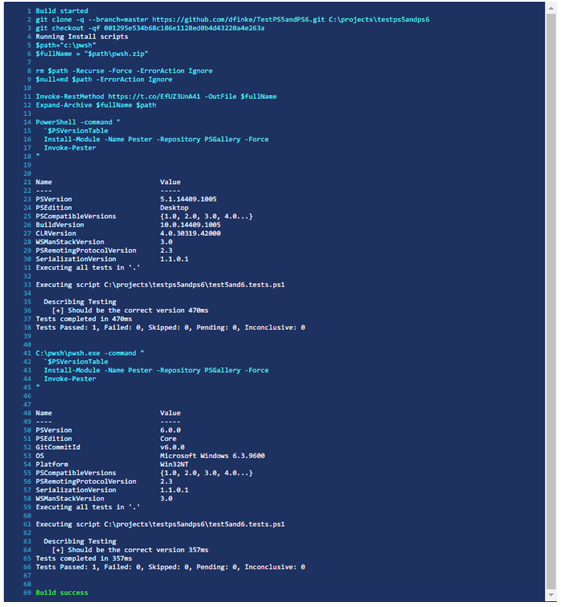
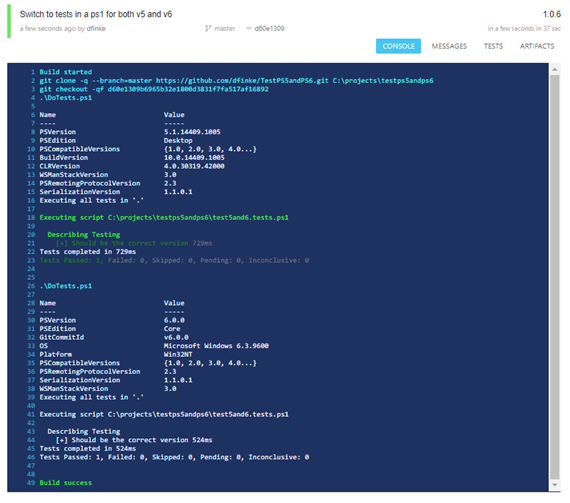
updated

Changed region(s): [[0.0, 0.0, 0.9964, 1.0]]

diff --git a/_posts/2018-01-23-PowerShell-Testing-Your-Scripts-For-v5-and-v6.md b/_posts/2018-01-23-PowerShell-Testing-Your-Scripts-For-v5-and-v6.md
@@ -12,6 +12,8 @@ tags:
 
 ## PowerShell, GitHub and Appveyor
 
+> UPDATE: Thanks to [Chris Hunt](https://twitter.com/LogicalDiagram) who found that [Appveyor](https://www.appveyor.com/) just released PS v6.0. So the YAML build config can call it with the new `pwsh:` section. eliminating the need to download and unzip V6. This reduced more moving parts and there is less to be concerned with.
+
 In this post I'll walk through how to use [GitHub](https://github.com/) and [Appveyor](https://www.appveyor.com/) to quickly and easily run your PowerShell Pester tests in both v5 and V6 of PowerShell. This way you'll have confidence in your scripts being able to run across versions.
 
 You can create free accounts for both [GitHub](https://github.com/) and [Appveyor](https://www.appveyor.com/). Then, fork my [repo](https://github.com/dfinke/TestPS5andPS6) and easily add it to your [Appveyor](https://www.appveyor.com/) to see it work.
@@ -22,11 +24,21 @@ You can check out a the [CI Build Results](https://ci.appveyor.com/project/dfink
 
 ## The Key
 
-Two things need to happen to be able to run your Pester tests in Appveyor for both v5 and v6. PowerShell version 6 needs to be installed and then Pester needs to be installed from the PowerShell Gallery for both versions in order to run the tests.
+Two things need to happen to be able to run your Pester tests in Appveyor for both v5 and v6. ~~PowerShell version 6 needs to be installed and then~~ Pester needs to be installed from the PowerShell Gallery for both versions in order to run the tests.
 
 That's what this YAML config file instructs the Appveyor runtime to do.
 
-![](/images/posts/appveyorv5v6.png)
+![](/images/posts/appveyorv5v6Updated.png)
+
+
+
+`.\DoTest.ps1` contains:
+
+```powershell
+$PSVersionTable
+Install-Module -Name Pester -Repository PSGallery -Force
+Invoke-Pester
+```
 
 ## Continuous...
 
@@ -35,21 +47,24 @@ After you added your GitHub repo to your Appveyor projects, Appveyor will clone 
 **Note**: Going forward, every time you check in changes to your GitHub repo, GitHub will notify Appveyor, and it will automatically go to work cloning it and running the `appveyor.yml` file.
 
 ## YML Sections
-You can see the two primary sectons `install` and `test_script`. Appveyor will run these in order, similar to a build spec.
 
-In the `install` section, the `- ps: |` section is a standard set of PowerShell. The first four lines sets up a couple of variables, removes the directory `$path` and then makes the directory `$path`. This is needed fot the `Invoke-RestMethod` which downloads the PowerShell v6.0 zip file, followed by `Expand-Archive` with unzips v6.0.
+With Appveyor now providing support for v6 with the `- pwsh:` section, you can pass `.\DoTest.ps1` to it and `- ps:`. This makes quick work of setup and testing of your scripts to see if the work across versions.
 
-Good news, v5 and v6 can run side by side.
+~~You can see the two primary sectons `install` and `test_script`. Appveyor will run these in order, similar to a build spec.~~
 
-Now that v6 is installed, the `yml` file executes what is in the `test_script:` section. There are two sections `- ps: |`. They are identical except that the first one runs `PowerShell` v5 and the second one runs `pwsh` v6. Note it points to the direcory where you pulled and unzipped PS v6.
+~~In the `install` section, the `- ps: |` section is a standard set of PowerShell. The first four lines sets up a couple of variables, removes the directory `$path` and then makes the directory `$path`. This is needed fot the `Invoke-RestMethod` which downloads the PowerShell v6.0 zip file, followed by `Expand-Archive` with unzips v6.0.~~
 
-Each version of PowerShell are passed the same 3 lines. First is shows what version you're running, next it installs Pester from the PowerShell Gallery and last it does an `Invoke-Pester` and runs the tests.
+~~Good news, v5 and v6 can run side by side.~~
 
-**Note**: These lines of script can be put into a `.ps1` and called from the `- ps:` section. That is recommended. This was done this way for easy illustration.
+~~Now that v6 is installed, the `yml` file executes what is in the `test_script:` section. There are two sections `- ps: |`. They are identical except that the first one runs `PowerShell` v5 and the second one runs `pwsh` v6. Note it points to the direcory where you pulled and unzipped PS v6.~~
+
+~~Each version of PowerShell are passed the same 3 lines. First is shows what version you're running, next it installs Pester from the PowerShell Gallery and last it does an `Invoke-Pester` and runs the tests.~~
+
+~~**Note**: These lines of script can be put into a `.ps1` and called from the `- ps:` section. That is recommended. This was done this way for easy illustration.~~
 
 ## The End
 
-Here's the results:
+Here's the results, you can see live results [here](https://ci.appveyor.com/project/dfinke/testps5andps6):
 
 ![](/images/posts/appveyorv5v6Results.png)
 
